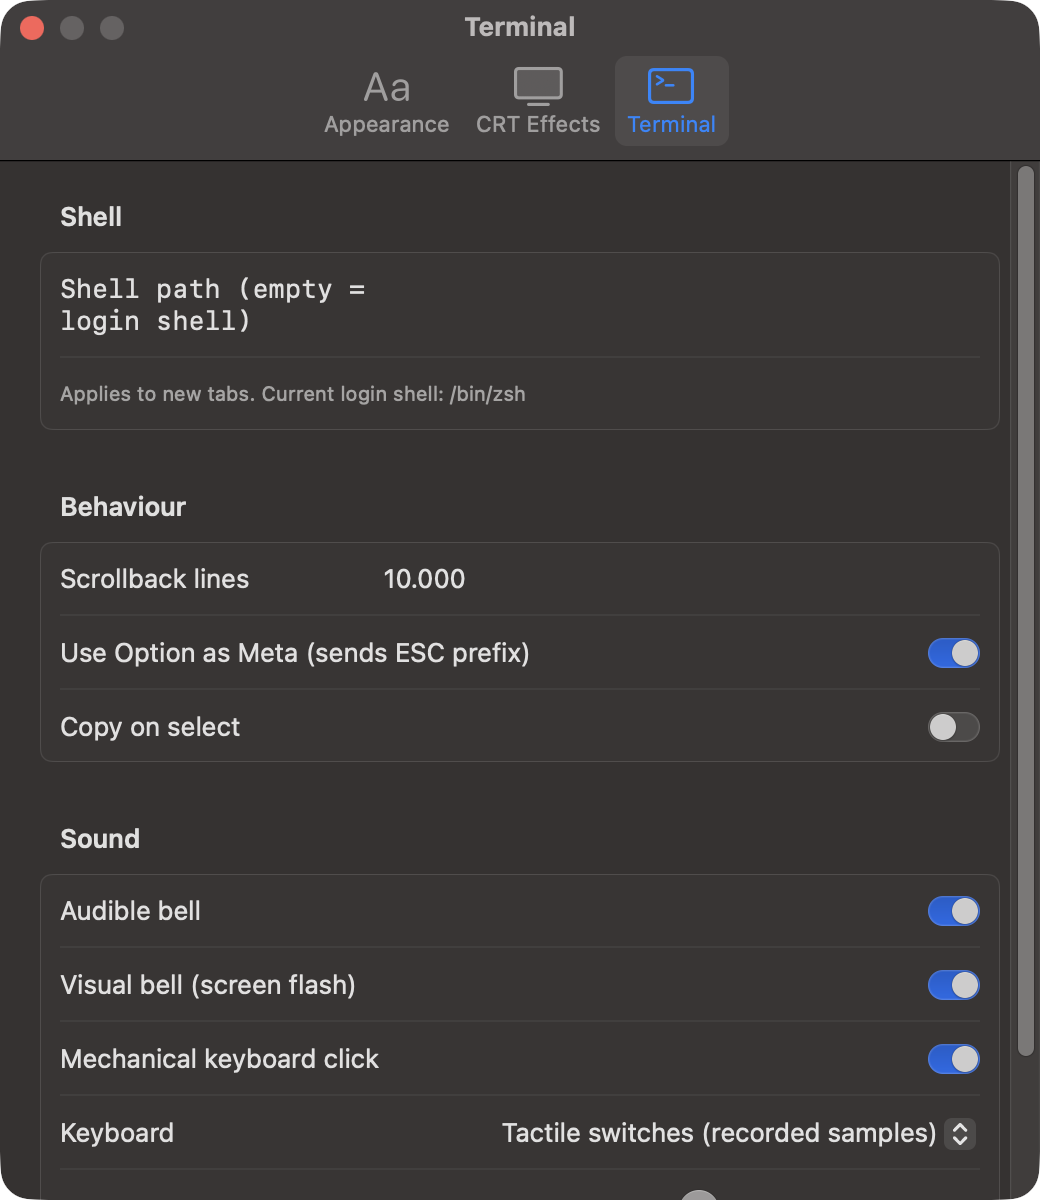
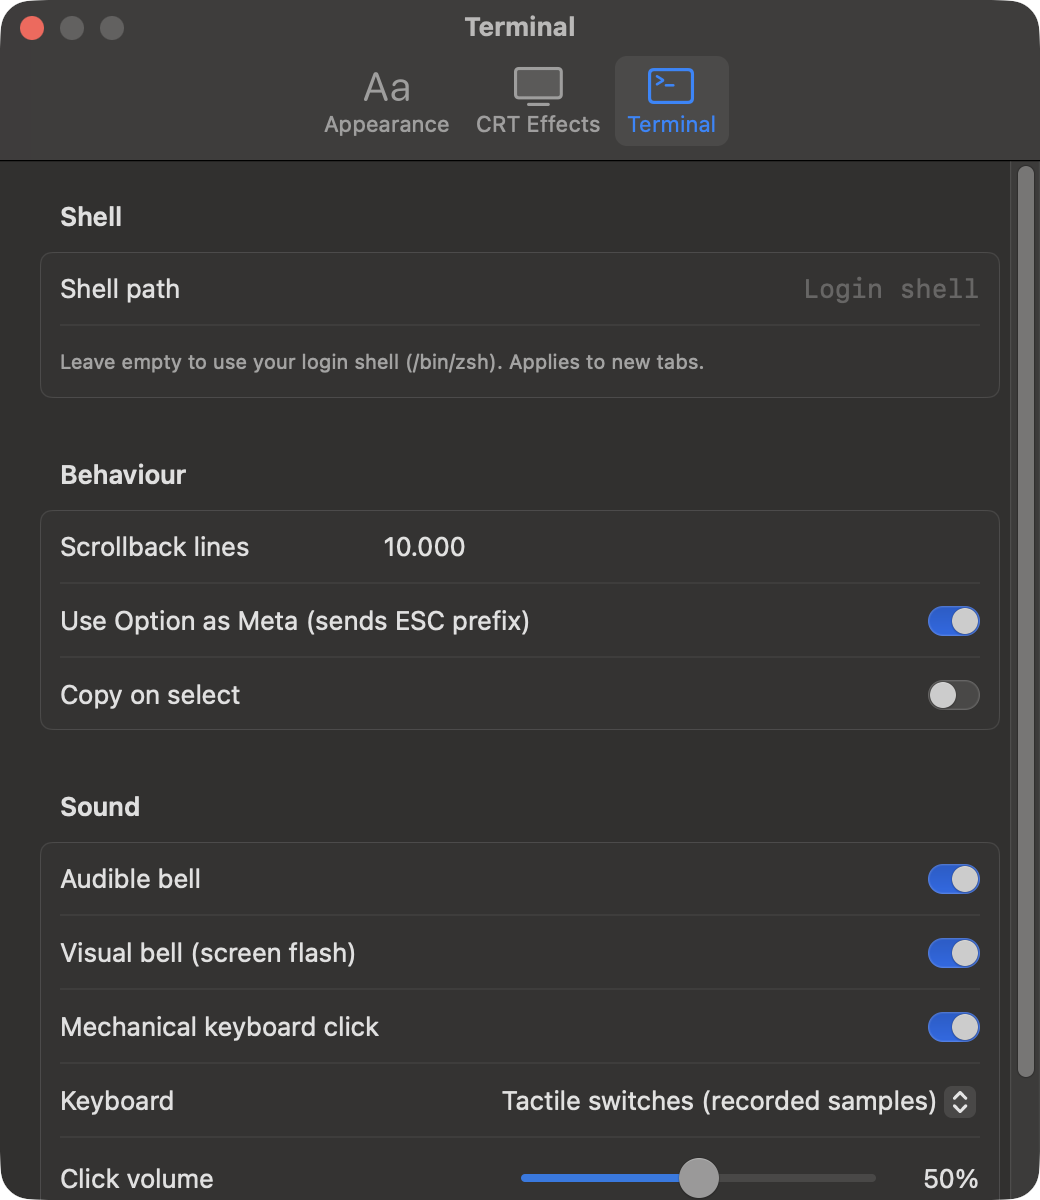
fix(settings): keep the Shell path label on one line
The monospaced font was applied to the row label too, so the long label
wrapped and squeezed the text field. Split label and field with
LabeledContent and move the login-shell hint to the placeholder and caption.

diff --git a/Sources/RetroTerm/SettingsView.swift b/Sources/RetroTerm/SettingsView.swift
@@ -188,9 +188,13 @@ struct TerminalSettings: View {
     var body: some View {
         Form {
             Section("Shell") {
-                TextField("Shell path (empty = login shell)", text: $settings.config.shellPath)
-                    .font(.system(.body, design: .monospaced))
-                Text("Applies to new tabs. Current login shell: \(RetroTermCoreShell.defaultShell)")
+                LabeledContent("Shell path") {
+                    TextField("", text: $settings.config.shellPath, prompt: Text("Login shell"))
+                        .labelsHidden()
+                        .font(.system(.body, design: .monospaced))
+                        .frame(maxWidth: .infinity)
+                }
+                Text("Leave empty to use your login shell (\(RetroTermCoreShell.defaultShell)). Applies to new tabs.")
                     .font(.caption).foregroundStyle(.secondary)
             }
             Section("Behaviour") {
